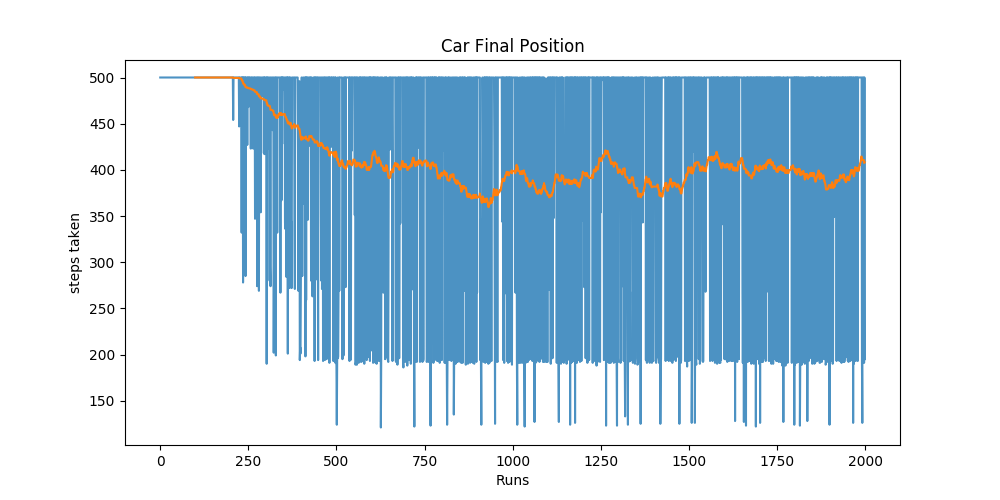
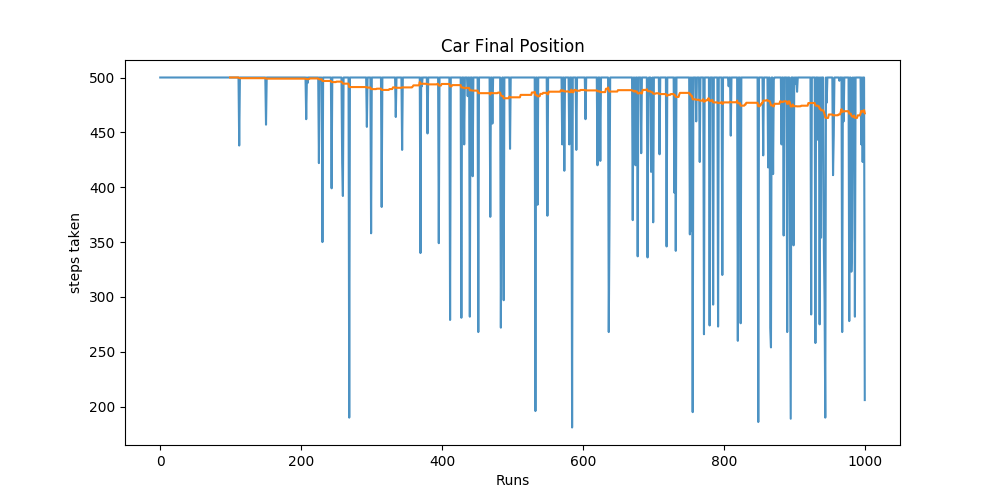
added comments and small tweaks

diff --git a/MountainCar.py b/MountainCar.py
@@ -4,14 +4,16 @@ import torch
 import torch.nn as nn
 import matplotlib.pyplot as plt
 import torch.optim as optim
+import pandas as pd
 from torch.autograd import Variable
 from tqdm import tqdm, trange
+
 from NN import NN
 from ReplayMemory import ReplayMemory
-import pandas as pd
 
 
-def optimize():
+
+def optimize(Q_0):
     # action-value function for state_1
     Q_1 = p_network(Variable(torch.from_numpy(state_1).type(torch.FloatTensor)))
     maxQ_1, _ = torch.max(Q_1, -1)
@@ -65,7 +67,7 @@ torch.manual_seed(1)
 
 UPDATE_TARGET_N = 10
 BATCH_SIZE = 128
-RUNS = 2000
+RUNS = 1000
 STEPS = 500
 R_MEMORY = ReplayMemory(10000)
 MIN_EPSILON = 0.04
@@ -89,40 +91,37 @@ optimizer = optim.SGD(p_network.parameters(), lr=l_r)
 # Scheduler will adjust learning rate after every run with the factor gamma
 scheduler = optim.lr_scheduler.StepLR(optimizer, step_size=1, gamma=0.9)
 
-number_steps = []
+steps_history = []
 last_nrsteps = 0
 run_durations = []
 
 
 # turn Experience Replay here on or off
 #######################################
-Experience_Replay = True ##############
+Experience_Replay = False ##############
 #######################################
 
 for run in trange(RUNS):
-    run_reward = 0
-    run_loss = 0
     state_0 = env.reset()
 
     for step in range(STEPS):
-
-        # get action-value function state_0
+        # get action-value function of state_0
         Q_0 = p_network(Variable(torch.from_numpy(state_0).type(torch.FloatTensor)))
 
-        # Choose random action with epsilon probability
+        # epsilon probability of choosing a random action
         if np.random.rand(1) < epsilon:
             action = np.random.randint(0, 3)
         else:
             # choose max value action
             _, action = torch.max(Q_0, -1)  # returns values, indices
             action = action.item()
+        # make next step and receive next state and reward, done true when successfull
+        state_1, _, done, _ = env.step(action)
 
-        # Step forward and receive next state and reward
-        state_1, reward, done, _ = env.step(action)
-
-        # Adjust reward based on car position
+        # Rewardfunction:
+        # get reward based on car position
         reward = state_1[0] + 0.5
-        # Adjust reward for task completion
+        # increase reward for task completion
         if state_1[0] >= 0.5:
             reward += 1
 
@@ -131,8 +130,7 @@ for run in trange(RUNS):
             R_MEMORY.push(torch.tensor(state_0), action, reward, state_1)
             optimize_with_ER()
 
-        else: optimize()
-
+        else: optimize(Q_0)
 
         if done or step + 1 == STEPS:
             # if successful
@@ -143,10 +141,9 @@ for run in trange(RUNS):
                     epsilon *= .99
                 # Adjust learning rate
                 scheduler.step()
-            # gater history
+            # gather history
             position.append(state_1[0])
-            number_steps.append(step + 1)
-            last_nrsteps = step + 1
+            steps_history.append(step + 1)
             break
         else:
             state_0 = state_1
@@ -156,7 +153,7 @@ for run in trange(RUNS):
         target_network.load_state_dict(p_network.state_dict())
 
         print('successful runs: {:d} - {:.4f}%'.format(successes, successes / RUNS * 100))
-        print("steps", last_nrsteps)
+        #print("steps", steps_history[-1)
 
 
 
@@ -165,8 +162,8 @@ for run in trange(RUNS):
 
 
 
-print("average steps for last 200 runs",np.sum(number_steps[-200:])/200)
-print("average steps for last 400 runs",np.sum(number_steps[-400:])/400)
+print("average steps for last 200 runs",np.sum(steps_history[-200:])/200)
+print("average steps for last 400 runs",np.sum(steps_history[-400:])/400)
 env.close()
 
 # plt.figure(2, figsize=[10,5])
@@ -183,7 +180,7 @@ env.close()
 
 
 plt.figure(2, figsize=[10,5])
-p = pd.Series(number_steps)
+p = pd.Series(steps_history)
 ma = p.rolling(100).mean()
 plt.plot(p, alpha=0.8)
 plt.plot(ma)

diff --git a/NN.py b/NN.py
@@ -12,6 +12,7 @@ class NN (nn.Module):
         # fully connected layer
         self.fc1 = nn.Linear(self.states_size, self.hidden1, bias=False)
         self.fc2 = nn.Linear(self.hidden1, self.actions_size, bias=False)
+
         #xavier weight initialisation: worse performance with optimal reward function
         # torch.nn.init.xavier_uniform(self.fc1.weight)
         # torch.nn.init.xavier_uniform(self.fc2.weight)
